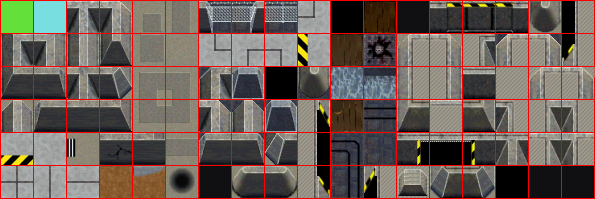
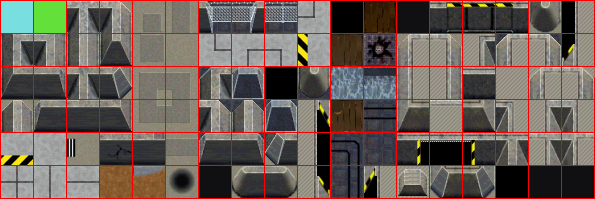
level tiles

Changed region(s): [[0.0, 0.0, 0.121, 0.1809]]

diff --git a/level.cpp b/level.cpp
@@ -1,0 +1,58 @@
+#include "level.h"
+#include "tmpl8/surface.h"
+#include <windows.h>
+#include <cstdio>
+#include <vector>
+
+std::vector<std::vector<int>> tiles;
+
+namespace Tmpl8
+{
+    extern Sprite Tilessprite;
+
+        Level::Level(int iwidth, int iheight)
+        {
+            width = iwidth;
+            height = iheight;
+
+            tiles.resize(height, std::vector<int>(width, 0));
+        }
+
+        void Level::CreateLevel()
+        {
+            for (int x = 0; x < width; x++)
+            {
+                tiles[height - 1][x] = 1;
+            }
+        }
+
+        void Level::Draw(Surface* gameScreen) {
+
+            for (int y = 0; y < height; y++)
+            {
+                for (int x = 0; x < width; x++)
+                {
+                    int tile = tiles[y][x];
+
+                    Pixel* src = Tilessprite.GetBuffer() + 1 + tile * 33 + (1 + 0 * 33) * 595;
+                    Pixel* dst = gameScreen->GetBuffer() + x * 32 + y * 32 * 800;
+                    for (int i = 0; i < 32; i++)
+                    {
+                        for (int j = 0; j < 32; j++)
+                            dst[j] = src[j];
+                        src += 595, dst += 800;
+                    }
+                }
+            }
+
+        }
+
+        bool Level::Collision(int x, int y)
+        {
+            int tx = x / 32, ty = y / 32;
+
+            return (tiles[ty][tx]);
+        }
+
+        int width, height;
+}

diff --git a/game.cpp b/game.cpp
@@ -3,43 +3,32 @@
 #include <windows.h>
 #include <cstdio>
 #include <algorithm>
+#include <vector>
 
 #include "player.h"
+#include "level.h"
 
 namespace Tmpl8
 {
-	Sprite Playersprite{ new Surface("tmpl8/assets/sprPlayer.png"), 1 }; // can be either
+	Sprite Playersprite{ new Surface("assets/sprPlayer.png"), 1 }; // can be either
+	Sprite Tilessprite{ new Surface("assets/nc2tiles.png"), 1 }; // can be either
+	//Sprite Playersprite{ new Surface("tmpl8/assets/sprPlayer.png"), 1 }; // can be either
+
 	int ScreenHeight = 0, ScreenWidth = 0;
 
-	class Level
-	{
-	public:
-		Level(int iwidth, int iheight)
-		{
-			width = iwidth;
-			height = iheight;
-		}
-
-		void draw(Surface* gameScreen) {
-			
-		}
-
-		int width, height;
-	};
+	Player myPlayer(64, 64);
+	Level level(10, 10);
 
 	void Game::Init()
 	{
 		ScreenWidth = screen->GetWidth();
 		ScreenHeight = screen->GetHeight();
-
+		level.CreateLevel();
 	}
 	
 	void Game::Shutdown()
 	{
 	}
-
-	Player myPlayer(64, 64);
-	Level level(10,10);
 
 	void Game::Tick(float deltaTime)
 	{
@@ -48,7 +37,11 @@ namespace Tmpl8
 		screen->Line(0,ScreenHeight - 200,ScreenWidth, ScreenHeight - 200,0x00FF00);
 		screen->Line(600,0 ,600, ScreenHeight,0x00FF00);
 
+		level.Draw(screen);
+
 		myPlayer.Move(deltaTime);
 		myPlayer.Draw(screen);
+
+		printf("%d", level.Collision(319, 319));
 	}
 };

diff --git a/level.h b/level.h
@@ -1,0 +1,21 @@
+#pragma once
+#include <vector>
+
+namespace Tmpl8
+{
+	class Surface;
+
+	class Level
+	{
+	public:
+		Level(int iwidth, int iheight);
+
+		void CreateLevel();
+		void Draw(Surface* gameScreen);
+		bool Collision(int x, int y);
+
+	private:
+		int width, height;
+		std::vector<std::vector<int>> tiles;
+	};
+}